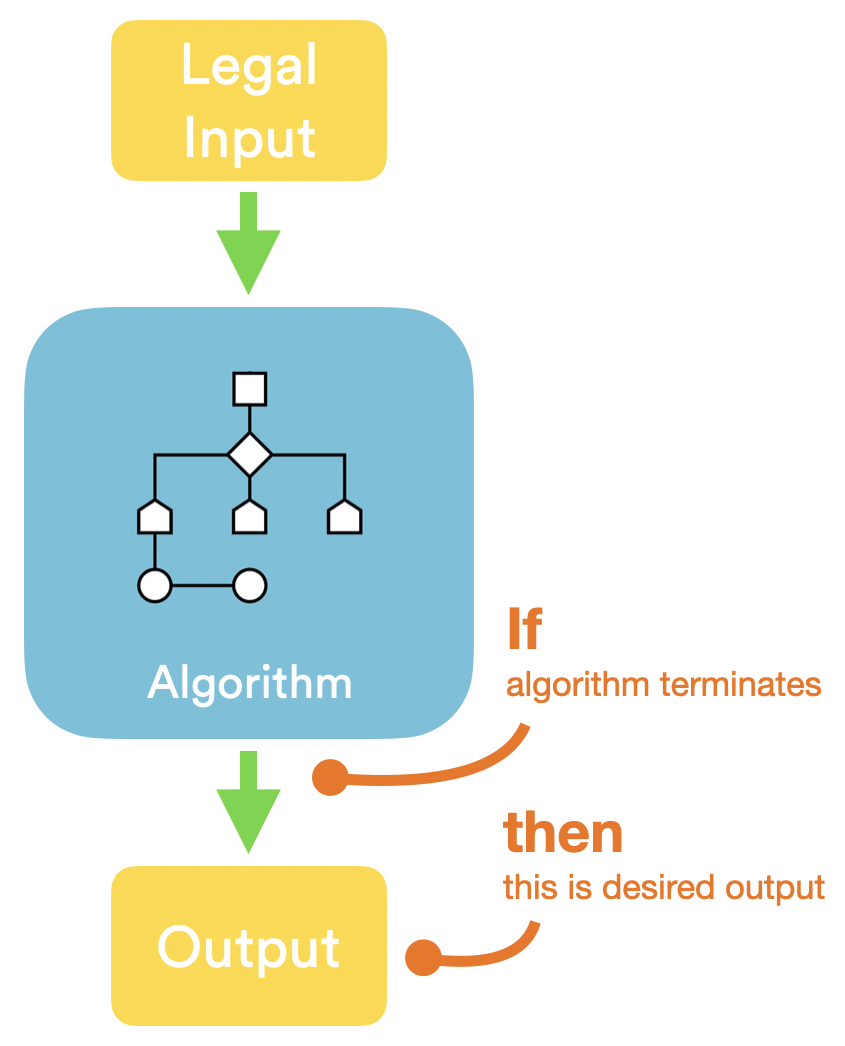
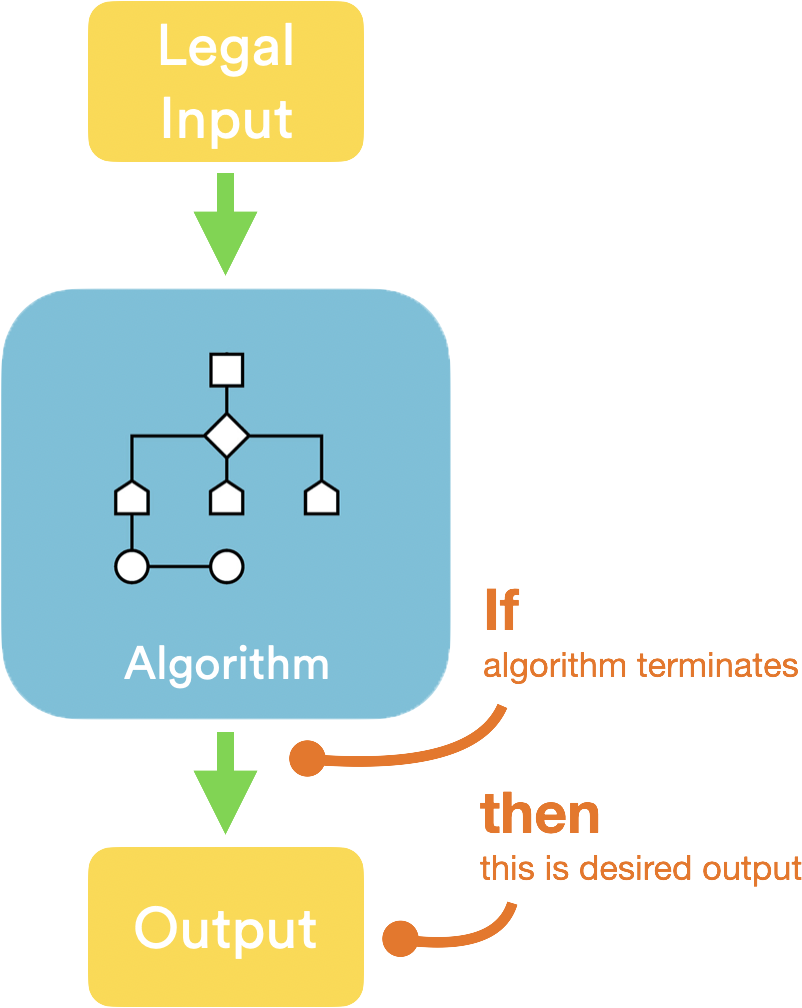
style(Partial & Total Correctness): new align 606f108

Changed region(s): [[0.0, 0.0, 0.9975, 1.0], [0.1247, 0.3383, 0.4364, 0.5843], [0.5299, 0.3075, 0.5611, 0.3383]]

diff --git a/src/scenes/subPages/Correctness/Tutorial/Total_Def.jsx b/src/scenes/subPages/Correctness/Tutorial/Total_Def.jsx
@@ -53,8 +53,8 @@ export default function Total_Def(props) {
             <Divider orientation="vertical" />
             </CardContent>
 
-            <CardContent style={styles.card2}>
-            <img src={img_total} height={500} width={230}/>
+            <CardContent style={styles.card2} align='center'>
+            <img src={img_total} height={400}/>
             </CardContent>
            
 

diff --git a/src/scenes/subPages/Correctness/Tutorial/Parital_Def.jsx b/src/scenes/subPages/Correctness/Tutorial/Parital_Def.jsx
@@ -53,7 +53,7 @@ export default function Total_Def(props) {
             </CardContent>
 
             <CardContent style={styles.card2}>
-            <img src={img_partial} height={500} width={230}/>
+            <img src={img_partial} height={400}/>
             </CardContent>
     
         </Card>
